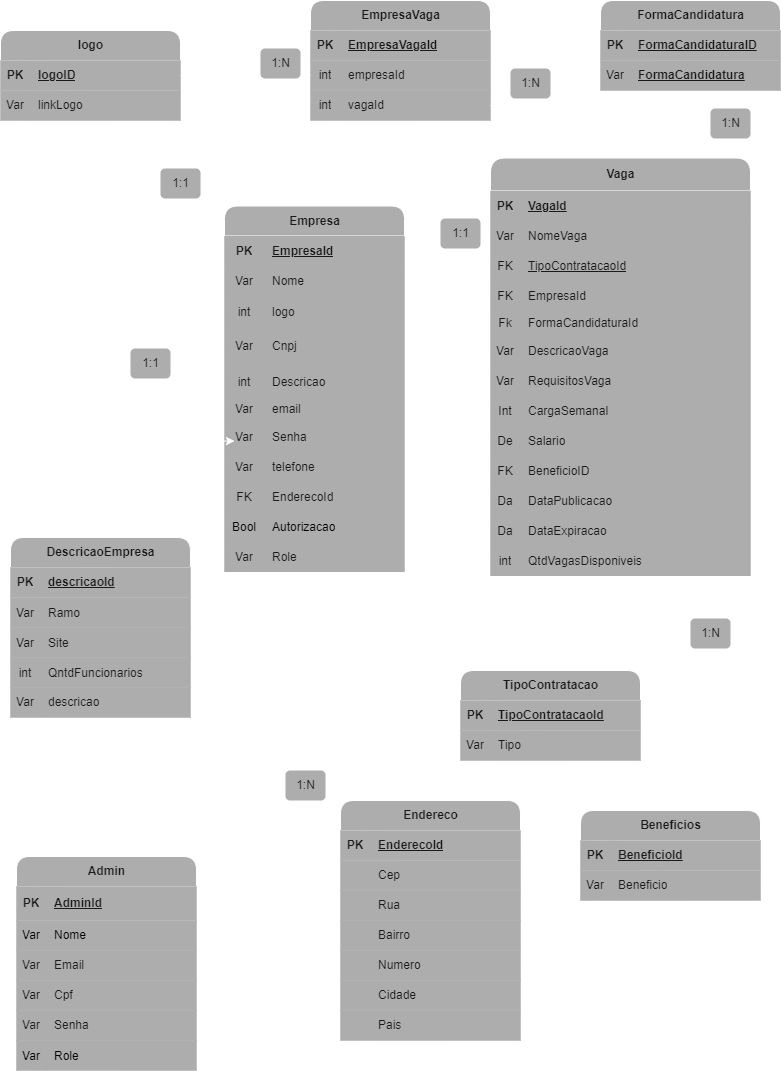
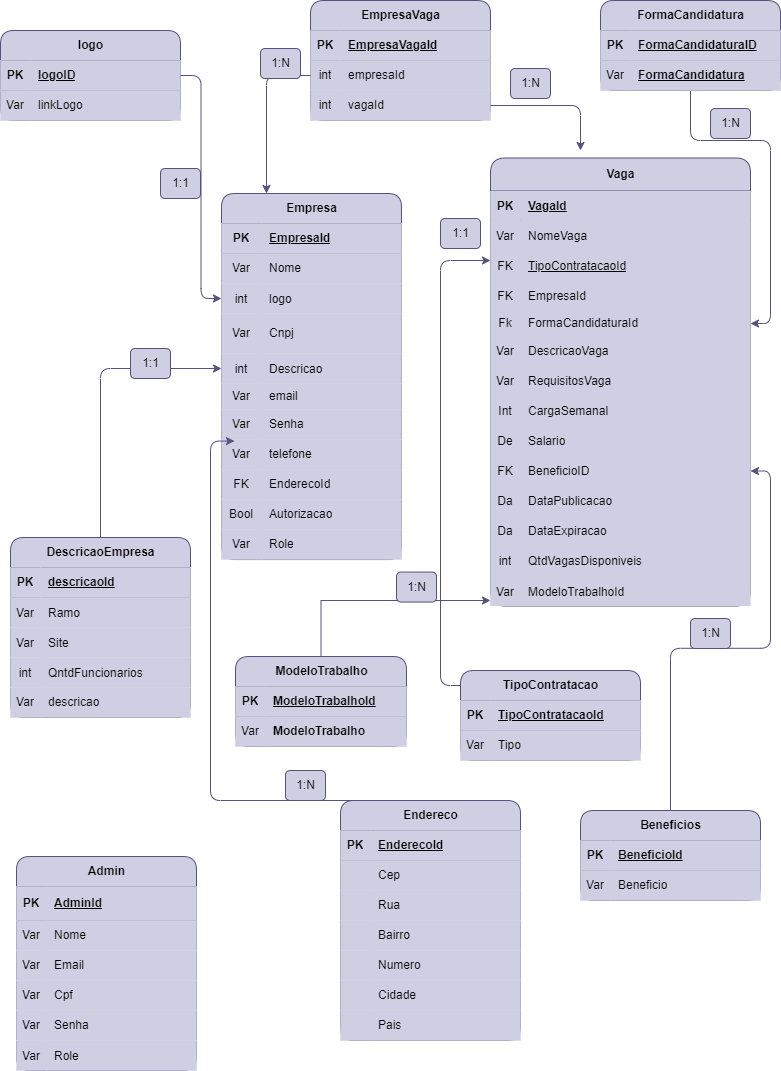
tabela adicional

diff --git a/src/main/java/com/senai/apimuralvagas/models/ModeloTrabalhoModel.java b/src/main/java/com/senai/apimuralvagas/models/ModeloTrabalhoModel.java
@@ -1,0 +1,23 @@
+package com.senai.apimuralvagas.models;
+
+import jakarta.persistence.Column;
+import jakarta.persistence.Entity;
+import jakarta.persistence.GeneratedValue;
+import jakarta.persistence.GenerationType;
+import jakarta.persistence.Id;
+import jakarta.persistence.Table;
+import jakarta.validation.constraints.NotBlank;
+import lombok.Data;
+
+@Entity
+@Table(name="modelo_trabalho")
+@Data
+public class ModeloTrabalhoModel {
+    @Id
+	@GeneratedValue(strategy = GenerationType.IDENTITY)
+	@Column(name = "modelo_trabalho_id")
+	private int modeloTrabalhoId;
+
+	@NotBlank
+	private String modeloTrabalho;
+}
